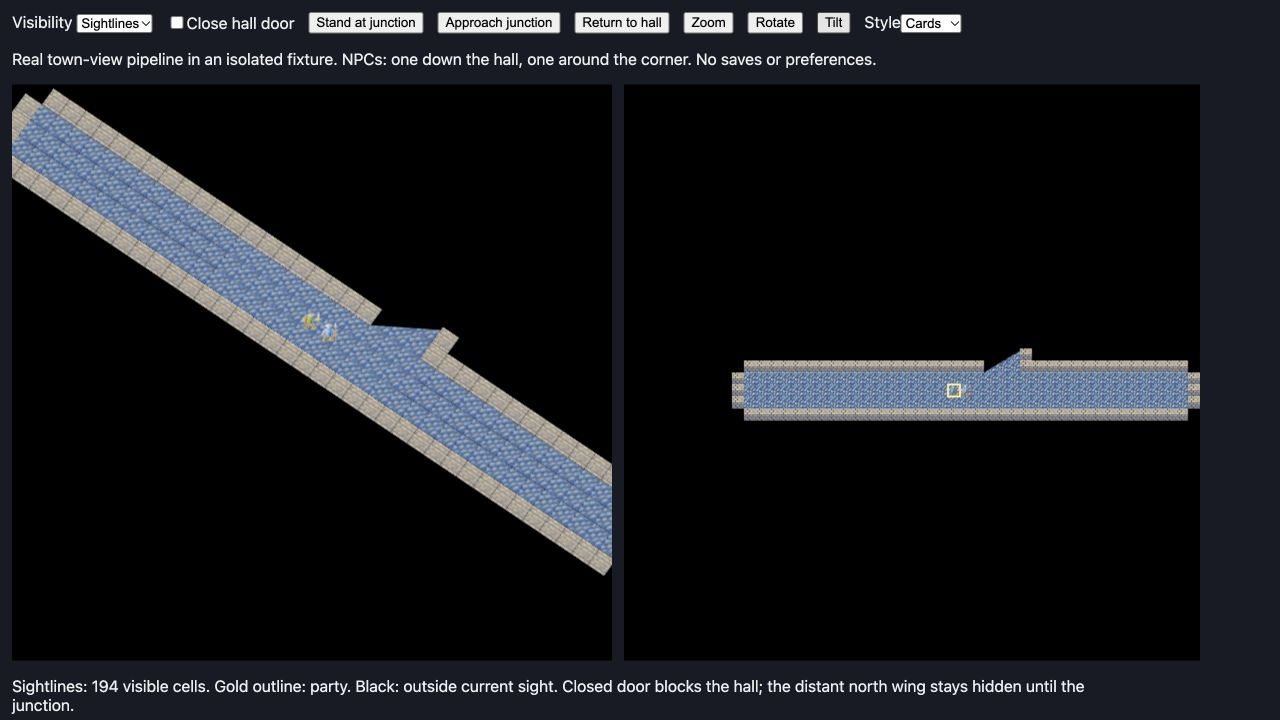
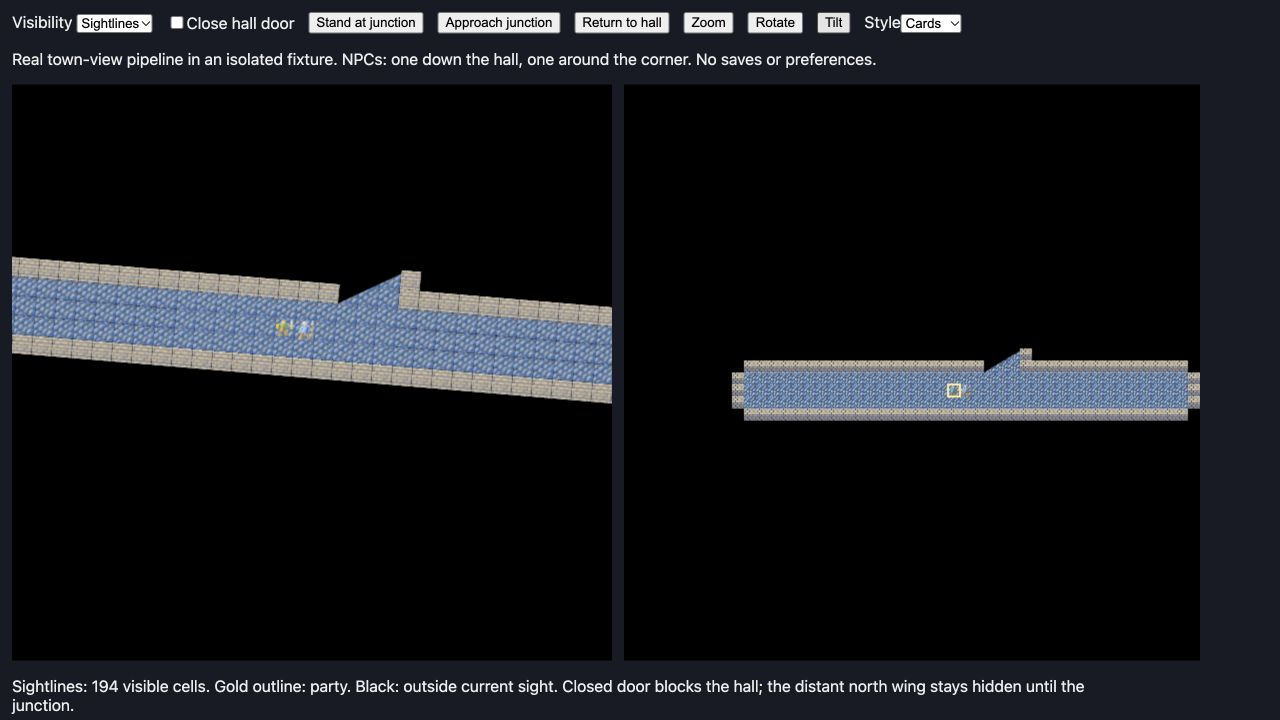
Expose continuous town sight in 3D settings and verify door updates

Changed region(s): [[0.0, 0.1222, 0.5, 0.7944]]

diff --git a/web/tests/sightPolygon.test.ts b/web/tests/sightPolygon.test.ts
@@ -31,6 +31,34 @@ describe('continuous sight boundary', () => {
     expect(region.visible[4 * 10 + 4]).toBe(0);
     expect(sightArea(sightTile(region.polygon, 4, 4))).toBeLessThan(1e-8);
   });
+  it('updates the shared polygon and distant actor admission when a town door opens and closes', () => {
+    const world = newWorld();
+    world.enterMap(402);
+    world.party.location = Location.Town;
+    world.current.tiles.fill(MapValue.Wall);
+    world.monsters.bytes.fill(0);
+    world.x = 10;
+    world.y = 20;
+    world.townSightlines = true;
+    for (let x = 8; x <= 35; x++) world.putXYVal(MapValue.Floor, x, 20);
+    world.monsters.setType(0, MapValue.Guard);
+    world.monsters.setPosition(0, 30, 20);
+    world.monsters.setTileUnder(0, MapValue.Floor);
+    world.putXYVal(MapValue.Guard, 30, 20);
+    const doorIndex = 20 * 64 + 20;
+    world.putXYVal(MapValue.LetterI, 20, 20);
+    const closed = buildViewport(world);
+    expect(closed.sightRegion!.surfaces).toContain(doorIndex);
+    expect(townSightActors(world, closed)?.map((a) => a.id)).not.toContain('monster:0');
+    world.putXYVal(MapValue.Floor, 20, 20);
+    const opened = buildViewport(world);
+    expect(opened.sightRegion!.surfaces).not.toContain(doorIndex);
+    expect(sightArea(opened.sightRegion!.polygon)).toBeGreaterThan(sightArea(closed.sightRegion!.polygon));
+    expect(townSightActors(world, opened)?.map((a) => a.id)).toContain('monster:0');
+    world.putXYVal(MapValue.LetterI, 20, 20);
+    expect(buildViewport(world).sightRegion).toEqual(closed.sightRegion);
+    expect(townSightActors(world, buildViewport(world))?.map((a) => a.id)).not.toContain('monster:0');
+  });
   it('admits the visible portion of an NPC whose centre is occluded, and rejects fully hidden actors', () => {
     const world = newWorld();
     world.enterMap(402);

diff --git a/web/src/ui/screen.ts b/web/src/ui/screen.ts
@@ -1053,6 +1053,11 @@ export class Screen implements GameIO {
             hint: 'F7 cycles independent model sets. Animations run continuously; F6 still selects sprites.',
           },
           {
+            key: '4',
+            label: `Sight: ${this.view3D.townSightlines ? 'Continuous' : 'Classic'}`,
+            hint: 'Town sight clips partial tiles at wall edges. Doors update sight when opened.',
+          },
+          {
             key: 'C',
             label: `Characters: ${this.view3D.characters ? 'Cards' : 'Flat'}`,
             disabled,
@@ -1199,6 +1204,7 @@ export class Screen implements GameIO {
           } as const
         )[key as 'D' | 'C' | 'L' | 'T' | 'W' | 'N' | 'M' | 'F' | 'Y' | 'S' | 'E' | 'Z' | 'G' | 'H' | 'V' | 'U' | 'A' | 'J' | 'K'];
         if (setting) this.set3DSettings({ ...this.view3D, [setting]: !this.view3D[setting] });
+        else if (key === '4') this.set3DSettings({ ...this.view3D, townSightlines: !this.view3D.townSightlines });
         else if (key === '2') {
           this.set3DSettings({
             ...this.view3D,

diff --git a/web/docs/continuous-sight.md b/web/docs/continuous-sight.md
@@ -1,6 +1,8 @@
 # Continuous town sightlines
 
-Select **Settings / Pause → Visuals → Town visibility: Sightlines**. The existing
+Select **Settings / Pause → 3D Settings → Sight: Continuous** (key **4**, then
+**Enter**), or **Visuals → Town visibility: Sightlines**. Both controls change the
+same remembered preference immediately. The existing
 Classic choice retains the original visibility algorithm. The continuous clip
 operates in the WebGL map renderer, with cards and model presentations, including
 an overhead camera. First-person dungeon visibility and outdoor exploration are
